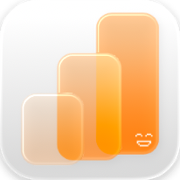
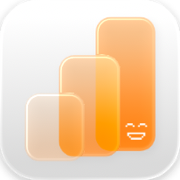
theme tweaks

Changed region(s): [[0.1111, 0.0556, 0.8889, 0.9167], [0.5278, 0.6111, 0.5556, 0.75]]

diff --git a/src/Solo.Client/wwwroot/css/app.css b/src/Solo.Client/wwwroot/css/app.css
@@ -9,9 +9,9 @@
 }
 
 :root[data-color-scheme="light"] {
-    --solo-boot-bg: #f7f3ee;
-    --solo-boot-fg: #b45309;
-    --solo-boot-surface: #e8e0d8;
+    --solo-boot-bg: #fdf9f3;
+    --solo-boot-fg: #df6610;
+    --solo-boot-surface: #eee6da;
 }
 
 html, body {

diff --git a/src/Solo.Client/Theming/ThemeState.cs b/src/Solo.Client/Theming/ThemeState.cs
@@ -233,7 +233,7 @@ public sealed class ThemeState(IJSRuntime js)
         var style = new
         {
             dark = Colors(_theme.Dark, "#000000", "#fff600"),
-            light = Colors(_theme.Light, "#f7f3ee", "#b45309"),
+            light = Colors(_theme.Light, "#fdf9f3", "#df6610"),
         };
 
         try
